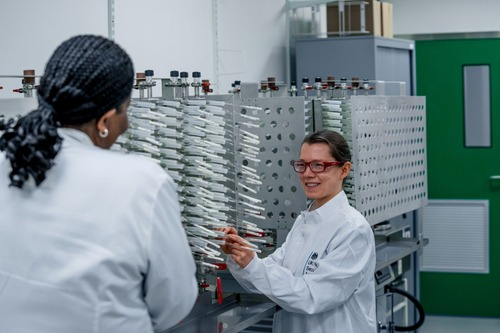
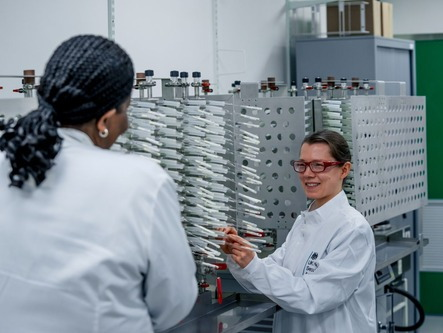
update images

diff --git a/content/our-research/sunlight-cardio.md b/content/our-research/sunlight-cardio.md
@@ -3,7 +3,7 @@ title: "Sunlight and Cardiovascular Disease"
 date: 2024-07-01T14:00:00Z
 draft: false
 type: "spotlight"
-thumbnail: "sunlight-text.jpg"
+thumbnail: "thumbnail-sunlight.jpg"
 alt: "Blood pressure monitoring."
 description: "High blood pressure affects around 25&#37; of UK adults and is a leading risk factor for cardiovascular disease. Research by UKHSA shows that small exposures to  sunlight may be beneficial for our cardiovascular health. This may offer a simple and accessible way of reducing the risk of cardiovascular disease."
 excerpt: "High blood pressure affects around 25&#37; of UK adults and is a leading risk factor for cardiovascular disease. Research by UKHSA shows that small exposures to sunlight may be beneficial for our cardiovascular health. This may offer a simple and accessible way of reducing the risk of cardiovascular disease"
@@ -13,7 +13,7 @@ buttonText: "Learn more on Sunlight and Cardiovascular Disease"
 
 {{< spotlight-feature title="Sunlight and Cardiovascular Disease"image="sunlight.jpg" alt="sunlight" caption="(Image source: Lukas-Pexels.com)" >}}
 
-<p>The hazards of staying out too long in the sun are well known – sunburn, increasing risk of skin cancer, skin ageing, to name a few. However, <i>in vitro</i> laboratory research from UKHSA (and independently researched by others), shows that some sunlight activates nitric oxide, a molecule in the skin known to reduce blood pressure <i>(Liu 2014)</i>. High blood pressure affects around 25&percnt; of UK adults and is a leading risk factor for cardiovascular disease; therefore, strategies to alleviate this burden of disease are a key priority <a style="color:white" href="https://www.gov.uk/government/publications/health-matters-combating-high-blood-pressure/health-matters-combating-high-blood-pressure" target="_blank"> (PHE Guidance 2017).</a></p>
+<p>The hazards of staying out too long in the sun are well known – sunburn, increasing risk of skin cancer, skin ageing, to name a few. However, <i>in vitro</i> laboratory research from UKHSA (and independently researched by others), shows that some sunlight activates nitric oxide, a molecule in the skin known to reduce blood pressure <i>(Liu 2014)</i>. High blood pressure affects around 25&percnt; of UK adults and is a leading risk factor for cardiovascular disease; therefore, strategies to alleviate this burden of disease are a key priority <a style="color:white;" href="https://www.gov.uk/government/publications/health-matters-combating-high-blood-pressure/health-matters-combating-high-blood-pressure". target="_blank"> (PHE Guidance 2017)</a>.</p>
 
 <p>Nitric oxide is a small molecule that is released in the skin after exposure to ultraviolet light (present in sunlight) and acts to expand the blood vessels in the body. This lowers blood pressure, thus reducing the risk of developing cardiovascular disease. The exact size of effect sunlight could have on cardiovascular health by this mechanism is unknown, however early clinical trials, epidemiological and laboratory data are supportive of this protective mechanism <i>(Liu 2014, Pelegrino 2020, Weller 2020, Weller 2022).</i></p>
 